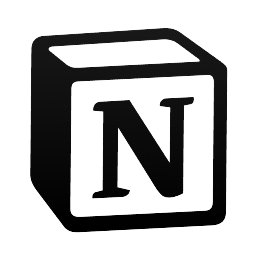
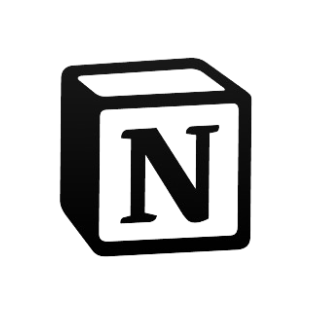
update: skill image, sort projects list

diff --git a/app/constants/data/projects.ts b/app/constants/data/projects.ts
@@ -14,6 +14,7 @@ export type ProjectProps = {
   project_name: string
   app_name: string
   slug: string
+  year: number
   project_image: StaticImageData
   descriptionEN: string
   descriptionTH: string
@@ -34,6 +35,7 @@ export const PROJECTS: ProjectProps[] = [
       "Development of a resort recommendation application in Thailand (Static App)",
     app_name: "Chill Pui Mui",
     slug: "chill-pui-mui",
+    year: 2023,
     project_image: project_coverimg_1,
     descriptionEN: "",
     descriptionTH: "",
@@ -57,6 +59,7 @@ export const PROJECTS: ProjectProps[] = [
       "NSC work [semi-final] - Classification of disease effecting rice leaves using image processing and deep learning",
     app_name: "Detection Rice Disease",
     slug: "detection-rice-disease",
+    year: 2024,
     project_image: project_coverimg_2,
     descriptionEN:
       "The Detection Rice Disease application is a tool designed for farmers to identify rice diseases using image processing and deep learning. This AI-powered technology offers more accurate disease classification than visual inspection. Additionally, the app allows users to access a knowledge base on rice diseases, providing further information on prevention methods and rice varieties resistant to diseases. The application primarily focuses on identifying three major rice diseases: Blast, Bacterial Blight, and Brown Spot.",
@@ -75,12 +78,32 @@ export const PROJECTS: ProjectProps[] = [
       },
       {
         name: "Tensorflow",
-        icon: icons.dart,
+        icon: icons.tensorflow,
         color: "",
       },
       {
         name: "Keras",
-        icon: icons.dart,
+        icon: icons.keras,
+        color: "",
+      },
+      {
+        name: "MongoDB",
+        icon: icons.mongodb,
+        color: "",
+      },
+      {
+        name: "Express.js",
+        icon: icons.expressjs,
+        color: "",
+      },
+      {
+        name: "React.js",
+        icon: icons.reactjs,
+        color: "",
+      },
+      {
+        name: "Node.js",
+        icon: icons.nodejs,
         color: "",
       },
     ],
@@ -92,6 +115,7 @@ export const PROJECTS: ProjectProps[] = [
       "Development of a Suan Sunandha Rajabhat University Navigator Application (Dynamic App)",
     app_name: "SSRU Map",
     slug: "ssru-map",
+    year: 2024,
     project_image: project_coverimg_3,
     descriptionEN:
       "The SSRU Map application helps students, faculty, external visitors, and new students navigate accurately to various locations within Suan Sunandha Rajabhat University.",
@@ -110,12 +134,12 @@ export const PROJECTS: ProjectProps[] = [
       },
       {
         name: "Google Maps API",
-        icon: icons.flutter,
+        icon: icons.googleMaps,
         color: "",
       },
       {
         name: "Firebase",
-        icon: icons.flutter,
+        icon: icons.firebase,
         color: "",
       },
     ],
@@ -127,6 +151,7 @@ export const PROJECTS: ProjectProps[] = [
       "Development of an application to learn English vocabulary with object detection (Dynamic App)",
     app_name: "Words Around Us",
     slug: "words-around-us",
+    year: 2024,
     project_image: project_coverimg_4,
     descriptionEN:
       "Words Around Us is an application designed for learning English vocabulary by detecting objects in your surroundings. It allows you to test your knowledge of English words while building proficiency through quizzes.",
@@ -145,12 +170,32 @@ export const PROJECTS: ProjectProps[] = [
       },
       {
         name: "Tensorflow Lite",
-        icon: icons.flutter,
+        icon: icons.tensorflow,
         color: "",
       },
       {
-        name: "Firebase",
-        icon: icons.flutter,
+        name: "React.js",
+        icon: icons.reactjs,
+        color: "",
+      },
+      {
+        name: "Node.js",
+        icon: icons.nodejs,
+        color: "",
+      },
+      {
+        name: "Express.js",
+        icon: icons.expressjs,
+        color: "",
+      },
+      {
+        name: "Prisma",
+        icon: icons.prisma,
+        color: "",
+      },
+      {
+        name: "PostgreSQL",
+        icon: icons.postgresql,
         color: "",
       },
     ],
@@ -162,6 +207,7 @@ export const PROJECTS: ProjectProps[] = [
       "Development of a website recommending cafes in Bangkok (Dynamic Website)",
     app_name: "CafeHeal",
     slug: "cafeheal",
+    year: 2024,
     project_image: project_coverimg_5,
     descriptionEN:
       "CafeHeal is a website that recommends cafes in Bangkok. Discover popular, must-visit cafes with beautiful aesthetics, unique photo opportunities, and cool locations. Easily search for cafes you're interested in and view their information and locations before you check-in.",
@@ -169,23 +215,28 @@ export const PROJECTS: ProjectProps[] = [
       "เว็บไซต์แนะนำร้านคาเฟ่ในจังหวัดกรุงเทพฯ ร้านคาเฟ่ยอดนิยมที่ต้องไปเช็คอิน ร้านสวยมุมเก๋ โลเคชันเท่ ถ่ายรูปสวยๆ ค้นหาร้านคาเฟ่ที่คุณสนใจ ดูข้อมูลร้านและโลเคชันร้านก่อนไปเช็คอินได้ง่ายๆ",
     SKILLS: [
       {
-        name: "PHP",
-        icon: icons.flutter,
+        name: "React.js",
+        icon: icons.reactjs,
         color: "",
       },
       {
-        name: "SQL",
-        icon: icons.dart,
+        name: "Express.js",
+        icon: icons.expressjs,
         color: "",
       },
       {
-        name: "Laravel",
-        icon: icons.laravel,
+        name: "Node.js",
+        icon: icons.nodejs,
         color: "",
       },
       {
-        name: "MySQL",
-        icon: icons.mysql,
+        name: "PostgreSQL",
+        icon: icons.postgresql,
+        color: "",
+      },
+      {
+        name: "Prisma",
+        icon: icons.prisma,
         color: "",
       },
     ],
@@ -196,6 +247,7 @@ export const PROJECTS: ProjectProps[] = [
     project_name: "Juliana CRM",
     app_name: "Juliana CRM",
     slug: "juliana-crm",
+    year: 2024,
     project_image: project_coverimg_6,
     descriptionEN:
       "Juliana CRM is a customer management system for a gold shop in Myanmar. It allows customers to purchase gold through the system, top up funds to buy gold, accumulate points to redeem for gold, and manage customer membership levels to receive various exclusive shop privileges.",
@@ -230,6 +282,7 @@ export const PROJECTS: ProjectProps[] = [
     project_name: "Cyberpay Wallet",
     app_name: "Cyberpay Wallet",
     slug: "cyberpay-wallet",
+    year: 2024,
     project_image: project_coverimg_7,
     descriptionEN:
       "Cyberpay Wallet is a mobile payment intermediary application designed for services within the Cyberpay Technology network. This includes services like CyberWash, CyberCoff, CyberStation, and more. It allows you to conveniently scan to pay, transfer money, top up funds, or receive Cashback for various services. Plus, you can track notifications for all these services within a single app.",

diff --git a/app/constants/icons.ts b/app/constants/icons.ts
@@ -4,18 +4,18 @@ import css from "@/public/assets/images/techs/css.svg";
 import javascript from "@/public/assets/images/techs/javascript.svg";
 import typescript from "@/public/assets/images/techs/typescript.svg";
 import reactjs from "@/public/assets/images/techs/reactjs.svg";
-import nextjs from "@/public/assets/images/techs/nextjs.svg";
+import nextjs from "@/public/assets/images/techs/nextjs.png";
 import redux from "@/public/assets/images/techs/redux.svg";
 import zustand from "@/public/assets/images/techs/zustand.svg";
 import tailwind from "@/public/assets/images/techs/tailwind.svg";
 import bootstrap from "@/public/assets/images/techs/bootstrap.svg";
 import mui from "@/public/assets/images/techs/material-ui.svg";
-import shadcn from "@/public/assets/images/techs/shadcn-ui.svg";
+import shadcn from "@/public/assets/images/techs/shadcn.png";
 import tanstackQuery from "@/public/assets/images/techs/tanstack-query.png";
 
 // # backend-database icons
 import nodejs from "@/public/assets/images/techs/nodejs.svg";
-import expressjs from "@/public/assets/images/techs/express.svg";
+import expressjs from "@/public/assets/images/techs/expressjs.webp";
 import mysql from "@/public/assets/images/techs/mysql.svg";
 import mongodb from "@/public/assets/images/techs/mongodb.svg";
 import postgresql from "@/public/assets/images/techs/postgresql.svg";
@@ -30,7 +30,7 @@ import reactnative from "@/public/assets/images/techs/reactjs.svg";
 
 // # devops icons
 import git from "@/public/assets/images/techs/git.svg";
-import github from "@/public/assets/images/techs/github.svg";
+import github from "@/public/assets/images/techs/github.png";
 import gitlab from "@/public/assets/images/techs/gitlab.svg";
 import bitbucket from "@/public/assets/images/techs/bitbucket.svg";
 
@@ -46,6 +46,11 @@ import notion from "@/public/assets/images/techs/notion.png"
 import navicat from "@/public/assets/images/techs/navicat.png"
 import postman from "@/public/assets/images/techs/postman.svg"
 import filezilla from "@/public/assets/images/techs/filezilla.svg"
+
+import googleMaps from "@/public/assets/images/techs/google-maps.svg"
+import tensorflow from "@/public/assets/images/techs/tensorflow.svg"
+import firebase from "@/public/assets/images/techs/firebase.svg"
+import keras from "@/public/assets/images/techs/keras.png"
 
 // 404 not found
 import notFound from '@/public/assets/images/not-found.svg'
@@ -89,4 +94,8 @@ export const icons = {
     navicat,
     postman,
     filezilla,
+    googleMaps,
+    tensorflow,
+    firebase,
+    keras,
 }

diff --git a/app/projects/[slug]/page.tsx b/app/projects/[slug]/page.tsx
@@ -54,12 +54,14 @@ export default function ProjectDetailPage() {
             <div className="flex flex-col sm:flex-row items-start justify-start gap-4 sm:gap-10 text-sm text-gray-500 dark:text-white/50">
               <div className='flex flex-col gap-1 border-l border-gray-500/50 pl-4'>
                 <div>Category</div>
-                <div className='text-gray-700 dark:text-white font-semibold'>{project?.category_name}</div>
+                <div className='text-gray-700 dark:text-white font-semibold'>{project.category_name}</div>
               </div>
 
               <div className='flex flex-col gap-1 border-l border-gray-500/50 pl-4'>
                 <div>Year</div>
-                <div className='text-gray-700 dark:text-white font-semibold'>2024</div>
+                <div className='text-gray-700 dark:text-white font-semibold'>
+                  {project.year}
+                </div>
               </div>
 
               <div className='flex flex-col gap-1 border-l border-gray-500/50 pl-4'>

diff --git a/app/components/Projects.tsx b/app/components/Projects.tsx
@@ -11,7 +11,8 @@ import TitleComponent from '@/components/shared/TitleComponent';
 import CardProjectComponent from '@/components/shared/CardProjectComponent';
 
 export default function Work() {
-  const someProjects = PROJECTS.slice(1, 5)
+  const projects = PROJECTS.filter((p) => p.published !== false).reverse().slice(0, 4)
+
   return (
     <section id='projects' className='container py-15 scroll-mt-10'>
       <motion.div {...fadeMotion} className='flex flex-col gap-8'>
@@ -19,7 +20,7 @@ export default function Work() {
         <TitleComponent title='🚀 Some of my projects' />
 
         <div className='grid grid-cols-1 md:grid-cols-2 gap-4'>
-          {someProjects.map((project, index) => (
+          {projects.map((project, index) => (
             <CardProjectComponent
               key={index}
               index={index}

diff --git a/app/projects/page.tsx b/app/projects/page.tsx
@@ -5,6 +5,8 @@ import { FaArrowLeftLong } from "react-icons/fa6";
 import CardProjectComponent from '@/components/shared/CardProjectComponent'
 
 export default function ProjectsPage() {
+  const projects = PROJECTS.filter((p) => p.published !== false).reverse()
+
   return (
     <section className='container py-10 md:py-14'>
       <div className='flex flex-col gap-8'>
@@ -16,7 +18,7 @@ export default function ProjectsPage() {
           <h1 className='text-[22px] md:text-[26px] text-title font-semibold'>📁 Projects</h1>
 
           <div className='grid grid-cols-1 md:grid-cols-2 gap-4'>
-            {PROJECTS.map((project, index) => (
+            {projects.map((project, index) => (
               <CardProjectComponent
                 key={index}
                 index={index}
